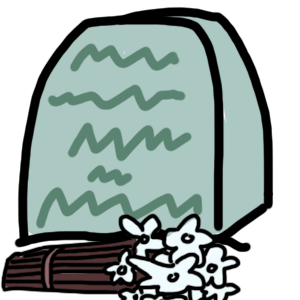
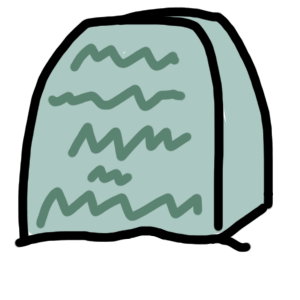
。

Changed region(s): [[0.0, 0.69, 0.81, 1.0]]

diff --git a/blog/笔记/酒仙笔记/猫球小镇.html b/blog/笔记/酒仙笔记/猫球小镇.html
@@ -2,7 +2,7 @@
 layout: page2
 title: 猫球小镇
 nav_text: 猫球小镇
-permalink: maocaoguo/boheqishuidao/maoqiuxiaozhen
+permalink: maoqiuxiaozhen
 ---
 <link rel="stylesheet" href="/css/all2.css">
 
@@ -32,7 +32,8 @@ a{color:#f6f6f6}
 #mapWrap .d:hover{background:#4888dd}
 #mapWrap .e{background:#00000000;}
 
-.ft{width:300px;height:300px}
+img.ft{width:300px;height:300px}
+a.ft{border:2px solid #bdbdbd;padding:4px}
 
 #弹窗{position:fixed;left:0px;top:0px;background:#00000070;width:100%;height:100%;z-index:1001}
 .弹窗_0{width:100%;height:100%;position:absolute}
@@ -168,22 +169,37 @@ b.标题{font-size:1.6em}
       return 临时;
     },
 
-    "墓园_":[
-      ["3-6","章鱼哥","「这里长眠着<br>章鱼哥的<br>希望<br>与<br>梦想」"],
-      ["7-23","多比","「这里长眠着<br>多比<br>一个<br>自由的小精灵」"],
-      ["32-50","老六","墓碑雕刻出“6”的手势。"],
+    "墓园_":[,
+      ["3-0","奥尔什方","「奥尔什方<br>灰石<br><br>待到重逢之时<br>我的挚友」","献花"],
+      ["3-6","章鱼哥","「这里长眠着<br>章鱼哥的<br>希望<br>与<br>梦想」","献花"],
+      ["7-23","多比","「这里长眠着<br>多比<br>一个<br>自由的小精灵」","送上袜子"],
+      ["8-10","绿箭侠","「奥利弗.奎恩<br>1985-2019<br>亲爱的儿子，兄弟，<br>丈夫和父亲，<br>星城的英雄，<br>绿箭侠。」","合影"],
+      ["25","萩原研二","「萩原家之墓」","献花"],
+      ["32-50","老六","墓碑雕刻出“6”的手势。","献花"],
+      ["590","艾斯和白胡子","「波特卡斯-D-艾斯」<br>「爱德华-纽盖特」","敬酒"],
+      /*
+
+      */
     ],
 
     "墓园":()=>{
       let 临时;
       if(逛=="x"){
         临时=`一座静谧的墓园。<br><br>${离开}<br><br>查看墓碑：<br>`;
-        for(let i=0;数据["墓园_"].length>i;i++){
-          临时+=`<a onclick="逛='${i}';弹窗('墓园')">${数据["墓园_"][i][0]}</a>　`;
+        for(let i=1;数据["墓园_"].length>i;i++){
+          临时+=`<a class='ft' onclick="逛=${i};弹窗('墓园')">${数据["墓园_"][i][0]}</a>　`;
         }
-      }else{
+      }else if(逛>=0){
         document.getElementById("对话标题").innerHTML=数据["墓园_"][逛][0];
-        临时=`<img src="${图src}墓园/${数据["墓园_"][逛][1]}.png" class="ft"><br>${数据["墓园_"][逛][2]}<br><br><a onclick="逛='x';弹窗('墓园')"> - 回到门口</a><br>${离开}`;
+        临时="";
+        if(数据["墓园_"][逛][3]){
+          临时=`<a onclick="逛=-${逛};弹窗('墓园')"> - ${数据["墓园_"][逛][3]}</a><br>`;
+        }
+        临时=`<img src="${图src}墓园/${数据["墓园_"][逛][1]}.png" class="ft"><br>${数据["墓园_"][逛][2]}<br><br>${临时}<a onclick="逛='x';弹窗('墓园')"> - 回到门口</a><br>${离开}`;
+      }else{
+        逛=逛*-1;
+        document.getElementById("对话标题").innerHTML=数据["墓园_"][逛][0];
+        临时=`<div style='position:relative;height:300px'><img src="${图src}墓园/${数据["墓园_"][逛][1]}.png" class="ft" style='position:absolute;top:0;z-index:1'><img src="${图src}墓园/${数据["墓园_"][逛][1]}_.png" class="ft" style='position:absolute;top:0;z-index:2'></div><br><a onclick="逛='x';弹窗('墓园')"> - 回到门口</a><br>${离开}`;
       }
       return 临时;
     },
@@ -272,14 +288,14 @@ b.标题{font-size:1.6em}
   document.getElementById("mapWrap").innerHTML=dy;
 
   function 弹窗(o){
-      document.getElementById("对话标题").scrollIntoView();
+      document.querySelector(".弹窗_1").scrollTop=0;
       document.getElementById("弹窗").style="";
       document.getElementById("对话标题").innerHTML=o;
       document.getElementById("对话").innerHTML=数据[o]();
   }
 
   function 关闭(){
-    document.getElementById("对话标题").scrollIntoView();
+    // document.getElementById("对话标题").scrollIntoView();
     document.getElementById("弹窗").style="display:none;";
     逛="x";
   }

diff --git a/blog/笔记/社会问题/游戏节奏/zk/19439819.html b/blog/笔记/社会问题/游戏节奏/zk/19439819.html
@@ -5,6 +5,7 @@ nav_text: 19439819
 nav_url: <a href="/biji/game">游戏笔记</a>
 permalink: i/19439819
 ---
+<b>达妮卡</b>
 <ol li>
     <li>瓦列里的角色预告视频里有一个场景里有一面战术板，达妮卡的剧情里也出现了同样的战术板。<br>
         角色厨：「说明这里本来是瓦列里的办公室，被米哈游挪用给了达妮卡。」</li>
@@ -12,15 +13,21 @@ permalink: i/19439819
         <span class='zhushi'>达妮卡不只是“女仆”，更重要的身份是“女皇的近侍”，职责包括传达旨意、调停、为女皇扫除障碍等；“特殊任务营”全名叫“愚人众第一近卫掷弹兵团特殊任务营”，负责军械宫的警卫任务。</span></li>
     <li>角色厨：「主角刚来到至冬，达妮卡去质问主角曾打伤过很多愚人众士兵，这不合理。瓦列里爱护手下，他去质问更合理。」<br>
         <span class='zhushi'>这个“质问”只是一个借口，达妮卡是去试探主角的。如果真让瓦列里去拿这件事质问，然后呢？被主角打败所以不追究了？还是把主角打败破坏女皇的计划？还是像原剧情那样被第三人打断，然后就不追究了？哪条都说不通。</span></li>
-    <li>角色厨：「以前有个周边展示图里，米提亚是神之眼，瓦列里是星之楔，后来两人对调，说明原本米提亚是4星，瓦列里是5星。」<br>
-        <span class='zhushi'>目前没有证据证明“只有5星是星之楔”、“用神之眼的都是4星”。而且米提亚和达妮卡显眼是5星角色的设计精度，瓦列里是4星。</span></li>
-    <li>角色厨：「其他角色的周边都是预售12月，只有米提亚和瓦列里是2027年4月，说明这两个角色改了。」<br>
-        <span class='zhushi'>根据他们列出的截图来看，其他角色也不是同时，而是桑多涅已经发售了，奥黛塔和阿罗夏是12月上旬，沃雅妮莎和薇斯纳是12月下旬，都是根据入池时间排的。</span></li>
-    <li>瓦列里的角色介绍里提到「随着军械宫内那一项目的进展不断，它（神之眼）也渐渐迸发出远超最初的炽目强光。」<br>
-        角色厨：「军械宫的项目是研究三降的力量，神之眼不可能和三降产生反应，只有星之楔会。」</li>
     <li>角色厨：「达妮卡把愚人众称作‘同僚’，但她直属于女皇，并不是愚人众。」<br>
         <span class='zhushi'>都是给女皇卖命，称“同僚”没啥问题吧。</span></li>
 </ol>
 
+<hr>
+
+<b>米提亚</b>
+<ol li>
+    <li>角色厨：「以前有个周边展示图里，米提亚是神之眼，瓦列里是星之楔，后来两人对调，说明原本米提亚是4星，瓦列里是5星。」<br>
+        <span class='zhushi'>目前没有证据证明“只有5星是星之楔”、“用神之眼的都是4星”。而且有个很明显的情况是：米提亚和达妮卡显然是5星角色的设计精度，瓦列里是4星。</span></li>
+    <li>角色厨：「其他角色的周边都是预售12月，只有米提亚和瓦列里是2027年4月，说明这两个角色改了。」<br>
+        <span class='zhushi'>根据他们列出的截图来看，其他角色也不是同时，而是桑多涅已经发售了，奥黛塔和阿罗夏是12月上旬，沃雅妮莎和薇斯纳是12月下旬，都是根据入池时间排的。</span></li>
+    <li>瓦列里的角色介绍里提到「随着军械宫内那一项目的进展不断，它（神之眼）也渐渐迸发出远超最初的炽目强光。」<br>
+        角色厨：「军械宫的项目是研究三降的力量，神之眼不可能和三降产生反应，只有星之楔会。」</li>
+    <li>角色厨：「米提亚在临上线前还在晋级改bug，说明是最近大改过。」</li>
+</ol>
 
 

diff --git a/blog/笔记/酒仙笔记/猫球仓买.html b/blog/笔记/酒仙笔记/猫球仓买.html
@@ -201,7 +201,7 @@ let 通用={
 
     "我想":按钮('我想0','我想变<b>清醒</b>')+br+按钮('我想1','我想<b>出去转转</b>')+br+按钮('我想2','我想听<b>音乐</b>')+br+按钮('我想3','我想了解猫球仓买的<b>历史</b>')+br+按钮('我想4','我想看看<b>店规</b>')+br+按钮('ok','算了'),
     "我想0":"我会对你施展某种魔法，让你完全清醒。{<br>}......      {j:=,0}{<br><br>}成功了！{<br><br>}"+按钮('ok','好了'),
-    "我想1":`好的，期待下次再会。{（<a href="/maocaoguo/boheqishuidao/maoqiuxiaozhen" target="_blank">点击此处回到猫球小镇</a>）<br><br>}`+按钮('我想','算了'),
+    "我想1":`好的，期待下次再会。{（<a href="/maoqiuxiaozhen" target="_blank">点击此处回到猫球小镇</a>）<br><br>}`+按钮('我想','算了'),
     "我想2":`我找找……歌单……猫球仓买……找到了。{<br>（<a href="https://music.163.com/#/playlist?id=17857498024" target="_blank">点击此处打开</a>）<br><br>}`+按钮('我想','好的'),
     "我想3":`给你，这是“猫球仓买”的更新日志：{（<a onclick="dw(dwb='19300033',dwd='更新日志')">点击此处查看</a>）<br><br>}`+按钮('我想','好的'),
     "我想4":`我希望猫球仓买可以让人放松。虽然的确有一份店规，不过那只是偶尔随便写的，并不需要真的严格遵守。{（<a onclick="dw(dwb='19300151',dwd='店规')">点击此处查看</a>）<br><br>}`+按钮('我想','好的'),

diff --git a/blog/私人/异世界/异世界猫球/0.html b/blog/私人/异世界/异世界猫球/0.html
@@ -22,7 +22,7 @@ pinglun: 1
 <script>
     let data = [//"图片／名字／说明／展开说明／o／弹出窗口／关键词",
     "18944791／猫球仓买／／／u／/cangmai／",
-    "19433097／猫球小镇／／／u／/maocaoguo/boheqishuidao/maoqiuxiaozhen／",
+    "19433097／猫球小镇／／／u／/maoqiuxiaozhen／",
     "2582626／纪念品／／／u／/jnp／",
     "17419891／二次元老婆／／／u／/waifu／",
     "18792050／伙伴／／／u／/aibo／",

diff --git a/js/miyou.js b/js/miyou.js
@@ -351,6 +351,7 @@ let 注={
 "乙代":"想象自己是女主角，与男角色谈恋爱",
 "KOL":"关键意见领袖，在该社区有影响力、大家更容易相信他的观点",
 // "":["",""],
+// "":["",""],
 
 // "A":"／b", //使用b的解释
 // "":["内容","链接",1(只看)]",
